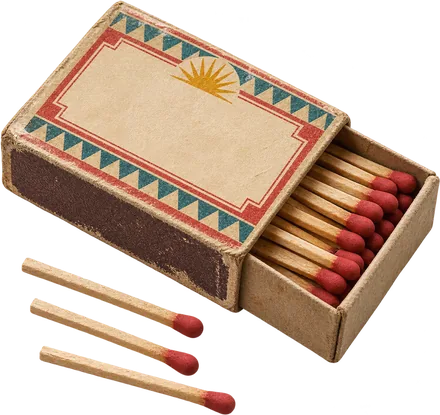
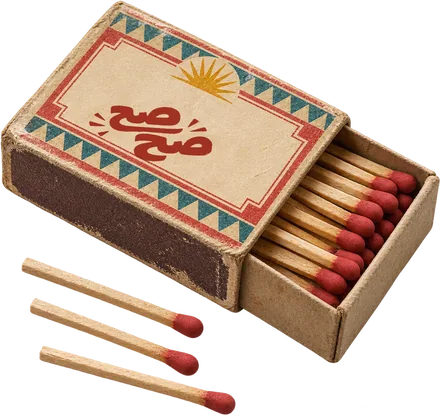
fix(ui): review pass on the cinema lobby
- Small covers letter the name in Lalezar on a dark slab at the top (11:1), clear of badges.
- Shelf badge moves to the bottom corner; board count sits at the bottom.
- Setup and lobby keep readable captions; the lobby strip is 3x2 below xl.
- Wall posters share one lighting layer; phones get a lighter wall image; the shelves start the
  wall further along so the hero and shelves never repeat.
- Narrower game cabinet so the wall shows around the TV.
- The matchbox carries the Sahsah mark printed on its label.

Changed region(s): [[0.2068, 0.2313, 0.5023, 0.4048]]

diff --git a/web_app/frontend/src/components/brand/cover.tsx b/web_app/frontend/src/components/brand/cover.tsx
@@ -75,7 +75,9 @@ export default function Cover({ src, name, tone, credits = ["صحصح تقدّم
     />
   );
 
-  const compact = "@max-[160px]:font-heading @max-[160px]:text-[14cqw]! @max-[160px]:rotate-0 @max-[160px]:[text-shadow:none]!";
+  // Small covers: the name in Lalezar, yellow on the dark slab at the top (11:1), never over a badge.
+  const compact =
+    "@max-[160px]:font-heading @max-[160px]:text-[14cqw]! @max-[160px]:rotate-0 @max-[160px]:[text-shadow:none]! @max-[160px]:bg-[#1d2321]! @max-[160px]:text-[#f6d64a]! @max-[160px]:shadow-none";
 
   return (
     <div className={cn("@container relative isolate aspect-[4/5] w-full overflow-hidden bg-[#f3e6c8]", className)}>
@@ -91,7 +93,7 @@ export default function Cover({ src, name, tone, credits = ["صحصح تقدّم
         />
 
         {layout === "framed" ? (
-          <div className="absolute inset-x-[12%] bottom-[24%] top-[8%] -rotate-2 bg-[#f3e6c8] p-[2.5%] shadow-[0.8cqw_1cqw_0_#1d2321] @max-[160px]:inset-x-[6%] @max-[160px]:bottom-[26%] @max-[160px]:top-[4%]">
+          <div className="absolute inset-x-[12%] bottom-[24%] top-[8%] -rotate-2 bg-[#f3e6c8] p-[2.5%] shadow-[0.8cqw_1cqw_0_#1d2321] @max-[160px]:inset-x-[6%] @max-[160px]:bottom-[4%] @max-[160px]:top-[30%]">
             <div className="relative size-full overflow-hidden bg-[#9aa39d]">{image}</div>
           </div>
         ) : (
@@ -100,10 +102,10 @@ export default function Cover({ src, name, tone, credits = ["صحصح تقدّم
         <div aria-hidden className="halftone pointer-events-none absolute inset-0 mix-blend-multiply opacity-40" />
 
         {layout === "band" && (
-          <div className="absolute inset-x-0 top-0 px-[4%] pb-[3%] pt-[2.5%] text-center" style={{ backgroundColor: ink.slab }}>
+          <div className="absolute inset-x-0 top-0 px-[4%] pb-[3%] pt-[2.5%] text-center @max-[160px]:p-0" style={{ backgroundColor: ink.slab }}>
             <p aria-hidden className="text-[3.3cqw] font-bold leading-none text-[#f3e6c8]/80 @max-[160px]:hidden">{credits[0]}</p>
             <p
-              className={cn("mt-[1.5%] font-poster leading-[1.05] [text-wrap:balance] @max-[160px]:mt-0", compact)}
+              className={cn("mt-[1.5%] font-poster leading-[1.05] [text-wrap:balance] @max-[160px]:mt-0 @max-[160px]:px-[4%] @max-[160px]:py-[3%]", compact)}
               style={{ fontSize: size, color: ink.title, textShadow: lettering(ink.shade, false) }}
             >
               {name}
@@ -130,7 +132,7 @@ export default function Cover({ src, name, tone, credits = ["صحصح تقدّم
           <p
             className={cn(
               "absolute inset-x-[5%] bottom-[10%] rotate-[-2.5deg] px-[3%] py-[2%] text-center font-poster leading-[1] [text-wrap:balance] shadow-[0.8cqw_1cqw_0_#1d2321]",
-              "@max-[160px]:inset-x-0 @max-[160px]:bottom-0 @max-[160px]:shadow-none",
+              "@max-[160px]:inset-x-0 @max-[160px]:top-0 @max-[160px]:bottom-auto @max-[160px]:px-[4%] @max-[160px]:py-[3%]",
               compact,
             )}
             style={{ fontSize: size, backgroundColor: ink.slab, color: ink.slab === "#f6e7c4" ? "#d7402a" : ink.title === ink.slab ? "#f6e7c4" : ink.title, textShadow: lettering(ink.shade, false) }}

diff --git a/web_app/frontend/src/components/room/cinema-wall.tsx b/web_app/frontend/src/components/room/cinema-wall.tsx
@@ -73,6 +73,8 @@ type CinemaWallProps = {
    * "home" fills its positioned parent (the home shelves), lit warmer so it sits next to the paper.
    */
   variant?: "stage" | "home";
+  /** Starts the wall further along, so two walls on one page (hero and shelves) never repeat each other. */
+  shift?: number;
   className?: string;
 };
 
@@ -81,18 +83,19 @@ type CinemaWallProps = {
  * over it one-sheets of fictional films with their titles typeset, pasted crooked, taped, faded and sometimes
  * torn. Phones get the painted wall only. Purely decorative.
  */
-export default function CinemaWall({ variant = "stage", className }: CinemaWallProps) {
+export default function CinemaWall({ variant = "stage", shift = 0, className }: CinemaWallProps) {
   const home = variant === "home";
   return (
     <div
       aria-hidden
       className={cn(
-        "pointer-events-none isolate overflow-hidden bg-[#3a2418] bg-[url(/cinema/wall-posters.webp)] bg-[length:1500px_auto]",
+        "pointer-events-none isolate overflow-hidden bg-[#3a2418] bg-[url(/cinema/wall-posters-sm.webp)] bg-[length:750px_auto] md:bg-[url(/cinema/wall-posters.webp)] md:bg-[length:1500px_auto]",
         home ? "absolute inset-0 rounded-[inherit]" : "fixed inset-0 -z-10",
         className,
       )}
+      style={shift ? { backgroundPosition: `${-shift * 97}px ${-shift * 131}px` } : undefined}
     >
-      <ul className="absolute -inset-x-10 -top-10 hidden grid-cols-5 gap-x-1 gap-y-2 md:grid lg:grid-cols-7 2xl:grid-cols-9">
+      <ul className="absolute -inset-x-10 -top-10 z-0 hidden grid-cols-5 gap-x-1 gap-y-2 md:grid lg:grid-cols-7 2xl:grid-cols-9">
         {Array.from({ length: home ? 45 : 36 }, (_, i) =>
           // Every other slot is left to the painted wall underneath.
           (i * 3) % 5 > 2 ? (
@@ -106,7 +109,7 @@ export default function CinemaWall({ variant = "stage", className }: CinemaWallP
               zIndex: (i * 7) % 5,
             }}
           >
-            <WallPoster film={films[(i * 5) % films.length]} index={i} />
+            <WallPoster film={films[(i * 5 + shift) % films.length]} index={i + shift} />
             {i % 3 === 0 && <span className="absolute -top-2 left-1/2 h-5 w-14 -translate-x-1/2 -rotate-3 bg-[#efe2c2]/60" />}
             {i % 4 === 1 && <span className="absolute end-2 top-2 size-2 rounded-full bg-[#7a6a58] shadow" />}
           </li>

diff --git a/web_app/frontend/src/components/room/host-lobby.tsx b/web_app/frontend/src/components/room/host-lobby.tsx
@@ -157,7 +157,7 @@ export default function HostLobby({ roomId, view, roomVersion, auth, categories,
 
         {/* The six categories chosen for this game. */}
         <section aria-label="فئات اللعبة" className="paper-card rounded-[1.6rem] border-4 border-ink p-4 shadow-[0_10px_0_var(--color-ink)]">
-          <ol className="grid grid-cols-6 gap-2 sm:gap-3">
+          <ol className="grid grid-cols-3 gap-2 sm:gap-3 xl:grid-cols-6">
             {view.selections
               .slice()
               .sort((a, b) => a.boardPosition - b.boardPosition)
@@ -168,7 +168,7 @@ export default function HostLobby({ roomId, view, roomVersion, auth, categories,
                     <div className={cn("border-[3px] bg-[#fff8ea]", toneAt(entry?.index ?? i).border)}>
                       <Cover src={entry?.category.coverUrl} name={entry?.category.name ?? "فئة"} tone={entry?.index ?? i} sizes="12vw" />
                     </div>
-                    <p className="sr-only">{entry?.category.name}</p>
+                    <p aria-hidden className="mt-1 truncate text-center text-sm font-bold">{entry?.category.name}</p>
                   </li>
                 );
               })}

diff --git a/web_app/frontend/src/components/setup/team-setup.tsx b/web_app/frontend/src/components/setup/team-setup.tsx
@@ -187,7 +187,7 @@ export default function TeamSetup() {
                   <div className={`border-4 bg-[#fff8ea] shadow-poster ${tone.border}`}>
                     <Cover src={entry?.category.coverUrl} name={entry?.category.name ?? "فئة"} tone={entry?.index ?? i} sizes="(min-width: 640px) 12vw, 30vw" />
                   </div>
-                  <p className="sr-only">{entry?.category.name ?? "فئة"}</p>
+                  <p aria-hidden className="mt-2 truncate text-center font-heading text-lg">{entry?.category.name ?? "فئة"}</p>
                 </li>
               );
             })}
@@ -244,7 +244,7 @@ function ProblemNotice({
 function Shell({ children }: { children: React.ReactNode }) {
   return (
     <div className="relative min-h-dvh">
-      <CinemaWall />
+      <CinemaWall className="max-lg:hidden" />
       <div className="paper ticket mx-auto min-h-dvh max-w-[1000px] px-5 pb-10 pt-9 shadow-[0_0_60px_rgb(0_0_0/0.6)] sm:px-8 lg:my-8 lg:min-h-0 lg:rounded-[2rem] lg:border-4 lg:border-ink">
         <div className="mb-8 flex items-center justify-between">
           <Link href="/" aria-label="صحصح، الصفحة الرئيسية">

diff --git a/web_app/frontend/src/components/room/room-shell.tsx b/web_app/frontend/src/components/room/room-shell.tsx
@@ -26,7 +26,7 @@ export default function RoomShell({ status, actions, children, stage, heading }:
   return (
     <div className="relative min-h-dvh">
       <CinemaWall />
-      <div className={cn("mx-auto flex min-h-dvh flex-col px-3 pb-6 pt-3 sm:px-5", stage ? "max-w-[1560px]" : "max-w-[1200px]")}>
+      <div className={cn("mx-auto flex min-h-dvh flex-col px-3 pb-6 pt-3 sm:px-5", stage ? "max-w-[1320px]" : "max-w-[1200px]")}>
         <header className="relative z-10 mb-4 flex items-center justify-between gap-3 rounded-2xl border-4 border-ink bg-press px-3 py-2 text-white shadow-[0_6px_0_var(--color-ink)] sm:px-5">
           <div className="flex min-w-0 flex-1 items-center gap-3">{actions}</div>
           <Link href="/" aria-label="صحصح، الصفحة الرئيسية" className="shrink-0 rounded-lg">

diff --git a/web_app/frontend/src/components/home/poster.tsx b/web_app/frontend/src/components/home/poster.tsx
@@ -56,7 +56,7 @@ export default function Poster({ category, toneIndex, selected, full, eager, onT
       <span
         aria-hidden
         className={cn(
-          "absolute -end-3 -top-3 grid size-11 place-items-center rounded-full border-[3px] border-ink font-heading text-2xl leading-none shadow-[0_3px_0_var(--color-ink)] transition-colors duration-200",
+          "absolute -bottom-3 -end-3 grid size-11 place-items-center rounded-full border-[3px] border-ink font-heading text-2xl leading-none shadow-[0_3px_0_var(--color-ink)] transition-colors duration-200",
           selected ? "animate-pop bg-green text-ink" : "bg-sun text-ink",
         )}
       >

diff --git a/web_app/frontend/src/components/home/home-view.tsx b/web_app/frontend/src/components/home/home-view.tsx
@@ -108,7 +108,7 @@ export default function HomeView() {
         tabIndex={-1}
         className={cn("arch paper relative z-10 scroll-mt-4 outline-none lg:-mt-32", selected.length > 0 ? "pb-56 sm:pb-40" : "pb-24")}
       >
-        <CinemaWall variant="home" />
+        <CinemaWall variant="home" shift={7} />
         <GutterDecor />
         <div className="absolute inset-x-0 top-0 z-20 hidden justify-center lg:flex">
           <Button onClick={play} size="xl" className="h-[4.75rem] min-w-[19rem] -translate-y-[58%] text-5xl ring-[5px] active:translate-y-[calc(-58%+3px)]">

diff --git a/web_app/frontend/src/components/home/shelf-decor.tsx b/web_app/frontend/src/components/home/shelf-decor.tsx
@@ -94,7 +94,7 @@ export function GutterDecor() {
             <>
               <Ledge><Prop name="radio" className="w-[80%] max-w-48" /></Ledge>
               <Ledge><Prop name="reel" className="w-[78%] max-w-44" /></Ledge>
-              <Ledge><Prop name="tea" className="w-[40%] max-w-24" /><Prop name="matchbox" className="w-[52%] max-w-28" /></Ledge>
+              <Ledge><Prop name="tea" className="w-[34%] max-w-20" /><Prop name="matchbox" className="w-[66%] max-w-40 -rotate-3" /></Ledge>
             </>
           ) : (
             <>
